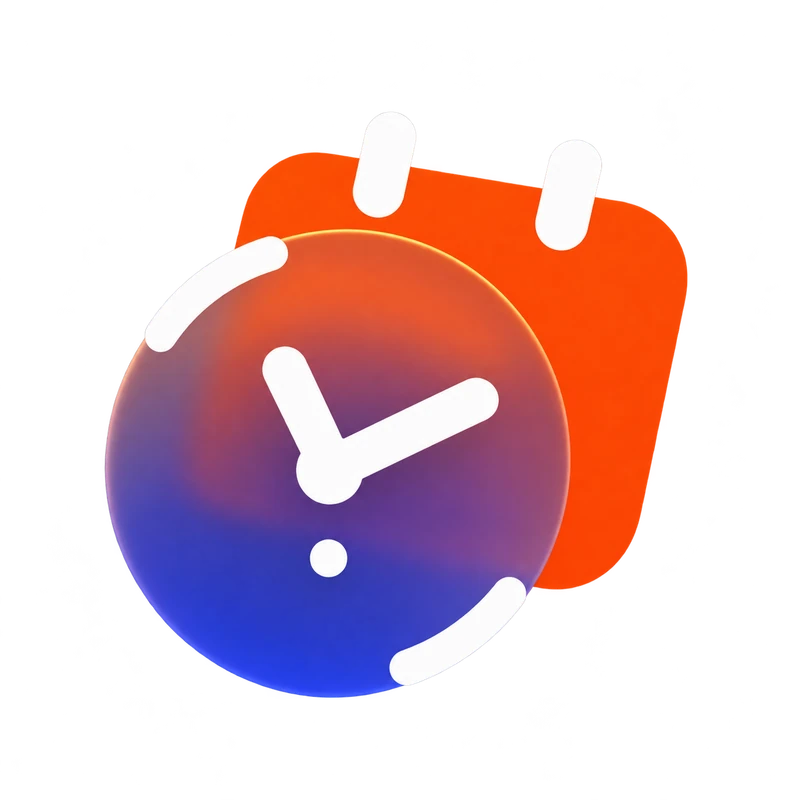
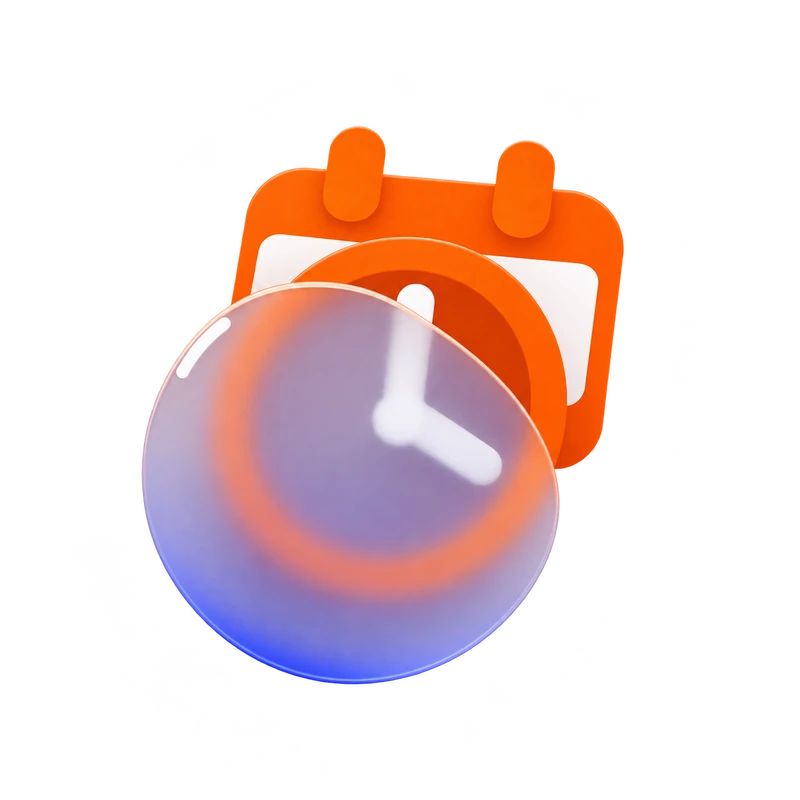
fix(order): show translucent frosted glass in every illustration

diff --git a/order-glass-icons-design-notes.md b/order-glass-icons-design-notes.md
@@ -1,45 +1,66 @@
-# Order page glass illustration set — 2026-11-08
+# Order page glass illustrations — corrected 2026-11-08
 
-The user requested regeneration of all order-page illustrations and explicitly required passing the attached image into the image generator. This set uses the built-in image_gen tool, one call per asset, with the actual 1000030606.jpg supplied through referenced_image_paths for every call and transparent_background=true. No CLI/API fallback was used.
+## User correction and material
 
-## Direction
+After release a6c665f the user asked: “А где стеклянные элементы как на референсах?” and attached the same JPG again. The first set read as dense gradient plastic in the assistant's visual assessment; the user's explicit correction concerned missing visible glass. The prior preview is preserved in design memory and the first version remains in Git history.
 
-Reference: the user's six-icon sheet (orange rear silhouettes, thin cobalt/indigo frosted glass, warm upper reflections, white graphic accents). The poster's dark background and error-state meanings are not transferred to the business page. Four business directions, nine feature categories and ongoing support each keep a recognisable semantic silhouette. The existing light UI provides the surrounding contrast.
+Each corrected icon has a separate thin glass foreground. A specific rear orange outline or white mark visibly continues through it, softened and tinted, while remaining sharp outside the rim. This optical transition is the material criterion; transparent canvas corners alone do not prove glass. Foreground silhouettes include panes, puzzle, speech bubble, triangle, cog, lens, star, link and shield.
 
-Relevant design memory: F-20261108-002 (this reference), F-20261107-001 (order illustrations and reference fidelity), F-20261030-005 (order flow and prior services corrections). Current explicit reference takes precedence over the older miniature-packaging visual direction. This new result has not yet been evaluated by the user.
+Relevant memory: F-20261108-002, F-20261107-001 and F-20261030-005. The shop pilot was independently reviewed at160px on white/gray/dark before generating the remaining set. The user's assessment of the correction is pending.
 
-## Delivery and integration
+## Assets and generation
 
-All 14 final assets: client/src/assets/order/glass-20261108-*.webp. Each is 800×800 with the generated alpha preserved (no background removal/recolouring). Export quality 90, alphaQuality 100; total 698,112 bytes. Raw generator PNGs remain in the local generated_images folder; export mapping and exact complete per-asset prompts are recorded in the workspace work/order-glass-icons/generation-manifest.json.
+Built-in image_gen was used with transparent_background=true. The actual user JPG1000030606.jpg (ea5aa945 attachment) was supplied through referenced_image_paths in EVERY generation. The remaining thirteen also received the new shop pilot as a material companion, not a replacement for the source JPG. Support received one additional built-in edit to remove external background haze while preserving its glass.
 
-OrderExperience.tsx uses the complete set in direction cards, selected-project previews, order review and detail sheets. OrderFeaturesStep.tsx uses the same nine category images. Versioned filenames produce new Vite content-hashed URLs. Older assets imported by other pages remain available. Controls and order logic are unchanged.
+All14 final WebPs:800×800, generated alpha preserved, quality90/alphaQuality100, total901,374bytes. No code-based background removal or recolouring was used. Existing order asset filenames are replaced; Vite produces new content-hashed image URLs. The existing light UI and transform-independent image centering are retained.
 
-Category artwork now centers using top/bottom insets and automatic margins. This fixes the pre-existing clipping caused when a global reduced-motion rule removed translateY centering. The complete square image box stays inside each category summary with either motion preference.
+- `client/src/assets/order/glass-20261108-shop.webp`
+- `client/src/assets/order/glass-20261108-restaurant.webp`
+- `client/src/assets/order/glass-20261108-fitness.webp`
+- `client/src/assets/order/glass-20261108-services.webp`
+- `client/src/assets/order/glass-20261108-basic.webp`
+- `client/src/assets/order/glass-20261108-payments.webp`
+- `client/src/assets/order/glass-20261108-delivery.webp`
+- `client/src/assets/order/glass-20261108-communications.webp`
+- `client/src/assets/order/glass-20261108-marketing.webp`
+- `client/src/assets/order/glass-20261108-management.webp`
+- `client/src/assets/order/glass-20261108-booking.webp`
+- `client/src/assets/order/glass-20261108-ai.webp`
+- `client/src/assets/order/glass-20261108-integrations.webp`
+- `client/src/assets/order/glass-20261108-support.webp`
 
-## Prompt set
+Raw generator PNGs remain in local generated_images. Exact source/export mapping and complete prompts: workspace work/order-glass-correction/final-manifest.json. Contact sheets, before/after page captures and reports: work/order-glass-correction/.
 
-The shopping asset was generated first with this exact prompt:
+## Exact prompt set
 
-> Reference image 1 is the STRICT visual design reference. Create ONE separate e-commerce / SHOP icon for a light website order page, using exactly the icon design language of that attached sheet. Do not recreate the sheet or any text. Study the attached icons: mostly frontal, slightly tilted shallow 2.5D layered cutouts; saturated vermilion-orange solid rear silhouette; a thin frosted translucent glass foreground with warm orange/purple light at the top and deep cobalt-indigo at the bottom; thin warm rim highlights; tiny thick white curved accent strokes. Main silhouette for this asset: an elegant shopping bag of cobalt/violet frosted glass, orange curved handles and an orange abstract rounded shape behind, a small bold white shopping-tag symbol on the front. Keep the subject simple and immediately readable. Match the reference's restrained thickness, graphic silhouette and layered translucent material, not realistic merchandise or a toy scene. One unified icon filling about 80% of a square canvas, centered with breathing room. Real transparent alpha background, no black rectangle, no tile, no floor, no cast shadow outside the icon. No lettering, numbers, watermark or branding. The dark backdrop in the reference is not part of the asset. Keep strong blue/purple density so it remains visible on white.
+Shop:
 
-The remaining thirteen use the following shared prompt, followed by their subject:
+> Use the attached image as the strict reference for GLASS MATERIAL and layering. Generate ONE shopping/ecommerce icon, not a sheet. The essential reference feature is a separate thin TRANSLUCENT FROSTED GLASS element, especially the glass rectangle in front of the white 404: the rear object is crisp outside the pane and visibly blurred/refracted through it. This sharp-to-blurred boundary MUST be obvious.
+Composition: a vivid vermilion-orange outline shopping bag with rounded handles and a solid white price tag floating inside it, at the rear. In front, overlap the lower two-thirds of the bag with a separate very thin rounded asymmetric glass panel tilted slightly left. The orange bag outline and the white tag MUST remain visible THROUGH the panel as soft defocused shapes; leave some of the exact same tag/handle crisp above the glass edge. Glass upper half is nearly clear light smoky violet with real see-through transparency; only its lower rim has a restrained cobalt/indigo tint. Thin delicate warm edge reflection, optical refraction, no chunky bevels. A tiny crisp white arc at one rim is enough. Show actual spatial separation between the orange/white subject and the glass pane. Do not replace glass with an opaque orange-to-blue gradient, dense purple bag body, rubber, luminous plastic, puffy toy, or colored plaque. The glass must visually transmit background and objects, not merely be shiny. Match the reference's thin flat silhouettes, moderate tilt, simple layering and restrained reflections.
+Single compact complete icon centered on a square, occupies80%, generous safe margins. Actual transparent alpha background, preserve semi-transparent glass pixels. No dark backdrop, no square tile, no floor, no external shadow, no text, numbers, logos, watermark. Intended for a WHITE/light gray UI: prove transparent glass via the objects showing through it.
 
-> Reference image 1 is the STRICT visual design reference, not an edit target. Generate ONE separate icon for a light website's order configurator, in exactly the attached icon set's design language. Mostly frontal with a slight tilt, shallow 2.5D layered graphic cutouts, not a bulky toy or realistic still life. Two or three overlapping simple silhouettes: vivid solid vermilion orange rear shape; a thin frosted translucent glass foreground tinted warm orange/purple at the top and deep cobalt/indigo at the bottom, softly blurred color seen through glass, fine warm edge highlights. A few short thick white highlight strokes and one bold white semantic symbol. Visually study and match the reference's material, shapes, restrained perspective, orange/blue/white proportions and simple composition. Avoid miniature props, glitter, sparkles or excess details. One complete unified icon on a square canvas, fills about80%, centered, all parts fully within frame. Actual transparent alpha background, no black tile or backdrop, no floor or external cast shadow, no lettering/numbers/watermark/logo. Keep dense blue glass legible on white. Subject:
+Shared prompt for the remaining thirteen, followed by each subject:
 
-- **restaurant:** Restaurant and food ordering: a broad cobalt/violet frosted glass serving cloche with orange shallow plate and orange abstract cloud behind; a clean bold white fork-and-spoon glyph on the cloche, one small curved white rim accent. A compact striking silhouette, no realistic food.
-- **fitness:** Fitness and gym membership: a strong cobalt/violet frosted glass dumbbell with rounded rectangular weight plates, bright orange offset weight silhouette behind, a white curved progress stroke and a small bold white heartbeat slash across the center. Clear dumbbell outline, shallow layered slab material, no gym scene.
-- **services:** Services and booking: an elegant cobalt/violet glass calendar card, a sculpted vivid orange four-petal gear/spark shape peeking from behind, a simple bold white checkmark and two white binding tabs. The calendar is the main form; compact asymmetric layered composition. No toolkit, briefcase, furniture or text.
-- **basic:** Basic application features: three overlapping small rounded rectangular app tiles, the main tile frosted cobalt/violet glass with a bold white four-cell grid glyph, a vivid orange tile offset behind, a smaller thin violet glass tab. A tidy layered application module, very simple and compact, not a full screen or browser screenshot.
-- **payments:** Payments and subscriptions: a tilted horizontal frosted cobalt/violet credit card, a bright orange coin disc emerging behind its upper right corner, a small bold white chip and two short white rounded lines on the card, a tiny white curved highlight on the coin. Elegant layered cutout composition, no currency lettering or numbers.
-- **delivery:** Delivery and pickup: a compact frosted cobalt/violet parcel with folded lid silhouette and white tape stripe, a vivid orange rightward arrow and softly rounded orange rear silhouette behind. Keep graphic flat-slab translucent layers like the reference, not a realistic cardboard box or vehicle. Strong recognisable delivery symbol, only two or three main shapes.
-- **communications:** Customer communication: two overlapping speech bubbles, a front frosted cobalt/violet glass bubble with three bold white rounded dots, an offset vivid orange bubble behind, one small white curved rim highlight. Compact asymmetric graphic, keep the speech tails clearly readable. No phone or envelope, no text.
-- **marketing:** Marketing and promotion: a single stylish megaphone as a shallow frosted cobalt/violet glass cutout, an orange wide rear cone and small orange burst shape, bold white circular aperture and a tiny white curved sound accent, short dark blue handle. Use the layered graphic material of the reference, not a realistic bulky plastic megaphone.
-- **management:** Business management and analytics: a tilted frosted cobalt/violet glass dashboard plate containing three thick white ascending chart bars, a small orange gear silhouette peeking behind the top right and a vivid orange offset rear panel. Compact attractive composition, same thin glass and restrained perspective as reference. No digits or browser interface.
-- **booking:** Booking and schedule: a round cobalt/violet frosted glass clock face with two thick bold white hands and one small white dot, in front of an offset orange calendar silhouette with two short binding tabs. Clock is the main shape, simple asymmetrical layered design; no numbers or grid of tiny dates.
-- **ai:** AI and automation: one elegant asymmetric four-point frosted cobalt/violet glass spark / neural star, with three thick white connected circuit dots in its center; a vivid orange rounded orbit shape peeks from behind. Sophisticated clean abstract intelligence symbol, no robot, face, mascot, brain anatomy or lettering.
-- **integrations:** Connections and service integrations: two strong interlocking rounded chain links, the front link is thin frosted cobalt/violet glass and the rear link vivid solid orange, a small soft orange rear shape. One short thick white rim highlight on the blue link. Links are visibly interconnected with open centers. A compact diagonal connection symbol; shallow slab material, not realistic metal or a busy network.
-- **support:** Continuous support after launch: a broad frosted cobalt/violet glass lifesaver ring with an open center and two short bold white curved band highlights; one vivid orange circular renewal arrow curves behind the ring. A compact elegant continuous-care symbol. Keep the shallow layered graphic construction and glass material of the reference, not a realistic inflatable toy, no tool case or text.
+> Image1 is the user's STRICT style reference. Image2 is a material consistency companion: match its separate thin translucent frosted glass pane and visible-through orange/white rear object. Generate ONE icon for a light order page. The key is optical GLASS, as in the reference's pane in front of404: orange/white subject is crisp outside the pane, and the EXACT SAME shapes visibly continue behind it, softened, tinted and refracted. Do not merely shade a solid object purple. Foreground glass is a thin mostly clear smoky-violet sheet, restrained deep cobalt only at its bottom edge, fine warm rim, minimal bevel, semi-transparent pixels. Rear orange/white geometry must remain strongly recognisable THROUGH the pane. Leave a meaningful part of the subject crisp above/outside its edge, creating an unmistakable sharp-to-blur transition. Distinct spatial layers, shallow mostly frontal perspective and a modest tilt, simple graphic construction, one small crisp white rim accent. No bulky rubber, opaque colored plaques, puffy plastic or glowing toy; do not obscure the subject with a dense gradient. Square canvas, complete compact icon fills80%, centered with safe margins. Real transparent alpha background including glass, no black backdrop/tile, no floor or external shadow/halo, no text/numbers/logo/watermark. Must read as glass on WHITE and light gray, not only on dark. Subject and glass shape:
+
+- **restaurant:** Rear: vivid orange outline of a serving cloche and a white fork and spoon, with the cloche knob and upper tips crisp above. Front: a thin broad rounded triangular frosted glass pane overlapping the lower two-thirds. Orange cloche outline and white fork/spoon continue visibly behind its face with strong soft optical blur; they are clearly separate objects, not a glyph painted on the glass.
+- **fitness:** Rear: flat vivid orange dumbbell outline and a white heartbeat zigzag. Front: a thin asymmetric horizontal frosted glass strip across the lower-center of the dumbbell, leaving the upper orange edges crisp outside; through the strip see the softened orange outlines and blurred white heartbeat. Clear strong dumbbell silhouette, no gym props.
+- **services:** Rear: vivid orange calendar outline with two binding tabs and one large white checkmark. Front: a thin gently tilted frosted glass rounded rectangle across its lower two-thirds, with the checkmark crossing its upper edge: top sharp outside, lower part softened through glass. The orange calendar edges must visibly pass behind. No tool case or tiny calendar text.
+- **basic:** Basic application modules. Rear: four small vivid orange app tiles with a white grid accent, slightly staggered vertically. Front glass MUST have a simple large PUZZLE-PIECE silhouette with rounded tabs, not a rectangular banner. It overlaps the lower/central tiles, which remain visible through it tinted and defocused; upper tiles are crisp outside. Simple compact modular assembly, no tiny screen content.
+- **payments:** Payments: a front thin transparent glass CREDIT CARD tilted slightly, plus an orange coin and orange card outline BEHIND it. A large white rounded chip is a separate rear object crossing the glass card's top edge: upper part sharp above, lower part visibly blurred through glass. Orange coin and outline are seen through the nearly clear upper card. Keep a restrained cobalt bottom rim, no numbers or lettering.
+- **delivery:** Delivery: a shallow parcel/cube whose separate front and side faces are thin frosted transparent GLASS, not a flat rectangular banner. The orange parcel edges and a large white right arrow stand BEHIND those glass faces; arrow upper tip peeks crisp outside while its lower part and orange box edges are visibly softened through the faces. Minimal mostly-frontal shallow cube perspective, no bulky opaque plastic box.
+- **communications:** Customer messages. Foreground glass MUST have a SPEECH-BUBBLE silhouette with a short tail, not a rectangular banner. Behind it an orange outlined speech bubble and three white dots, with one dot/top edge crisp outside the front bubble; inside glass the exact orange outline and dots are blurred and tinted yet readable. Thin distinct translucent layer and clearly visible conversation silhouette.
+- **marketing:** Marketing and promotion. Foreground glass MUST be a broad rounded TRIANGLE / flared megaphone-cone cutout, not a rectangular banner. Behind it a vivid orange megaphone outline with a short handle and white circular aperture/sound marks. Some orange outline and white marks sharp outside the glass triangle, the overlapping parts visibly blurred through it. Simple recognisable promotion motif, shallow graphic perspective.
+- **management:** Management and analytics. Foreground glass MUST have a broad thin GEAR/COG silhouette like the user's bottom-right reference, not a rounded rectangular banner. Behind it an orange dashboard/chart outline with three bold white bars, upper bar tips sharp outside the cog, lower portions and orange shape visibly defocused and transmitted through glass. Thin clear cog with a cobalt bottom edge, avoid opaque plastic gear.
+- **booking:** Booking and schedule. Foreground glass MUST be a thin CIRCULAR lens, not a rectangular banner. Behind it an orange clock outline and two thick white hands, with part of the clock outline and one hand crisp outside the offset circular lens; inside it the same hands and outline are visibly defocused through the glass. A small orange calendar tab peeks behind at the top, no numerals.
+- **ai:** AI and automation. Foreground glass MUST have a large elegant FOUR-POINT STAR / neural spark silhouette, not a rectangle. Behind it an orange orbital loop and three white circuit nodes linked by white lines. Some orange loop and one white node extend crisp beyond the glass-star edge, the rest seen softened and optically refracted through the star. Simple abstract intelligence, no robot or mascot.
+- **integrations:** Service integrations. Foreground glass MUST be a broad transparent rounded CHAIN LINK with an OPEN CENTER, diagonal, not a rectangle. An orange chain link interlocks behind it; a short white connector line passes behind the broad glass strand and is visibly blurred/transmitted in that overlap while crisp outside. Thin transparent glass link with a cool bottom edge and delicate rim; rear orange ring clearly seen across the glass strand, not an opaque blue plastic chain.
+- **support:** Ongoing support after launch. Foreground glass MUST have a rounded SHIELD silhouette like the user's reference, not a rectangular banner. Behind it a vivid orange circular renewal arrow and a separate white support headset glyph. The white headset's upper arch is crisp above the shield, the earcups and orange arrow continue visibly blurred/tinted behind the translucent shield face. Warm fine rim, cobalt lower tip, calm protective-support meaning, no warning or X.
+
+Support background-cleanup edit:
+
+> Edit image1 only. Remove the unwanted gray/white background haze and colored outer glow OUTSIDE the actual support icon. Everything outside the orange renewal arrow, white headset, and glass shield boundaries must be fully transparent alpha zero, including every canvas edge. Preserve the icon itself: same shapes, positions, orange arrow, white headset, thin foreground frosted shield, blue lower rim, visible sharp-to-blurred headset/arrow through the glass. Preserve real semitransparency INSIDE the glass shield. Do not remove the glass, flatten it, repaint the material, add a white background, or change the design. Image2 is the original user material reference only. Deliver the same single centered support icon as a clean transparent cutout with no halo, no floor shadow and no background film.
 
 ## Verification
 
-Baseline mobile captures at 390px were saved before changing imports. The complete set has actual transparent pixels and decodes as WebP. Independent browser review passed at 320/390/430px and 390px with unrestricted motion: all nine category images stay completely inside their summaries, with no page errors or horizontal overflow. The existing order flow regression passed at all three mobile widths and with blocked storage. Before/after differences, screenshots and browser reports are in work/order-glass-icons; final validation results are recorded in EDIT_LOG.md. The user has not yet approved the generated artwork.
+The previous published page was captured before integration with API requests mocked; no real orders/messages were submitted. Independent visual review of the corrected light/dark contact sheets passed the material criterion above. Final mobile/build checks and checkpoint are recorded in EDIT_LOG.md. Verification is not user approval.

diff --git a/EDIT_LOG.md b/EDIT_LOG.md
@@ -1010,6 +1010,15 @@ build memory + a11y + CI auto-fix that empower the single agent.
 **Verification:** Vite production build passed. All 14 WebPs are 800×800 with alpha (698,112 bytes total). Independent mobile captures passed at 320/390/430 px and with unrestricted motion at 390 px; all nine category image boxes fit inside their summaries. Existing order-flow regression passed at 320/390/430 px and with blocked storage. No page errors or horizontal overflow observed; no real orders/messages submitted. Before/after screenshots, three difference images and a light-background contact sheet saved under workspace `work/order-glass-icons/`. Exact prompts and rationale recorded in the design notes; artwork awaits the user's evaluation.
 
 ---
+## 2026-11-08 · Correct the missing visible glass in all order illustrations
+
+**What:** Replaced all 14 illustrations with thin frosted foreground elements transmitting recognisable rear orange/white objects, visibly blurred and tinted through the glass and sharp outside its edge. Varied glass silhouettes across categories. The actual user JPG was supplied for each built-in generation; support received one additional background-haze cleanup through the same image tool. No interface logic or layout changed.
+**Why:** User explicitly asked where the glass elements were after the first set. The prior palette and glossy edges were insufficient; the replacement was judged by visible layer transmission at UI size, not merely an alpha channel.
+**Files:** All `client/src/assets/order/glass-20261108-*.webp`, `order-glass-icons-design-notes.md`, `CODEBASE_INDEX.md`.
+**Checkpoint:** `checkpoint/order-glass-transparency-20261108` at `a6c665f`.
+**Verification:** Vite production build passed. Independent material review passed on light/dark contact sheets and actual mobile UI. All 14 assets are 800×800 with alpha (901,374 bytes total). Captures at 320/390/430 px with reduced motion and 390 px with normal motion passed with no page errors or horizontal overflow; all nine category images fit inside their summaries. Baseline from the previous production release and 68 after screenshots are in workspace `work/order-glass-correction/`; APIs mocked, no real orders/messages. Artwork remains subject to the user's evaluation.
+
+---
 <!-- Future entries appended ABOVE this line by the AI agent. Template:
 
 ## YYYY-MM-DD HH:MM · short description

diff --git a/CODEBASE_INDEX.md b/CODEBASE_INDEX.md
@@ -388,7 +388,7 @@ This file is updated when files are added/removed. **EDIT_LOG.md** tracks per-ch
 ## Security verification
 
 - `SECURITY.md` / `SECURITY-ASSESSMENT-2026-11-07.md` — architecture, new-demo requirements, verification and remaining provider configuration.
-- `client/src/assets/order/glass-20261108-*.webp` — 14 transparent reference-generated illustrations used by the active order page; prompts and rationale in `order-glass-icons-design-notes.md`.
+- `client/src/assets/order/glass-20261108-*.webp` — 14 corrected reference-generated illustrations with thin see-through frosted foregrounds; active order page, prompts and rationale in `order-glass-icons-design-notes.md`.
 - `client/src/lib/apiUrl.ts` — same-origin API credential boundary used by shared request helpers.
 - `client/public/sw.js` — public-asset caching only; no private API persistence or mutation replay.
 - `scripts/check-secrets.mjs` — tracked-file credential checks, locations only in output.
